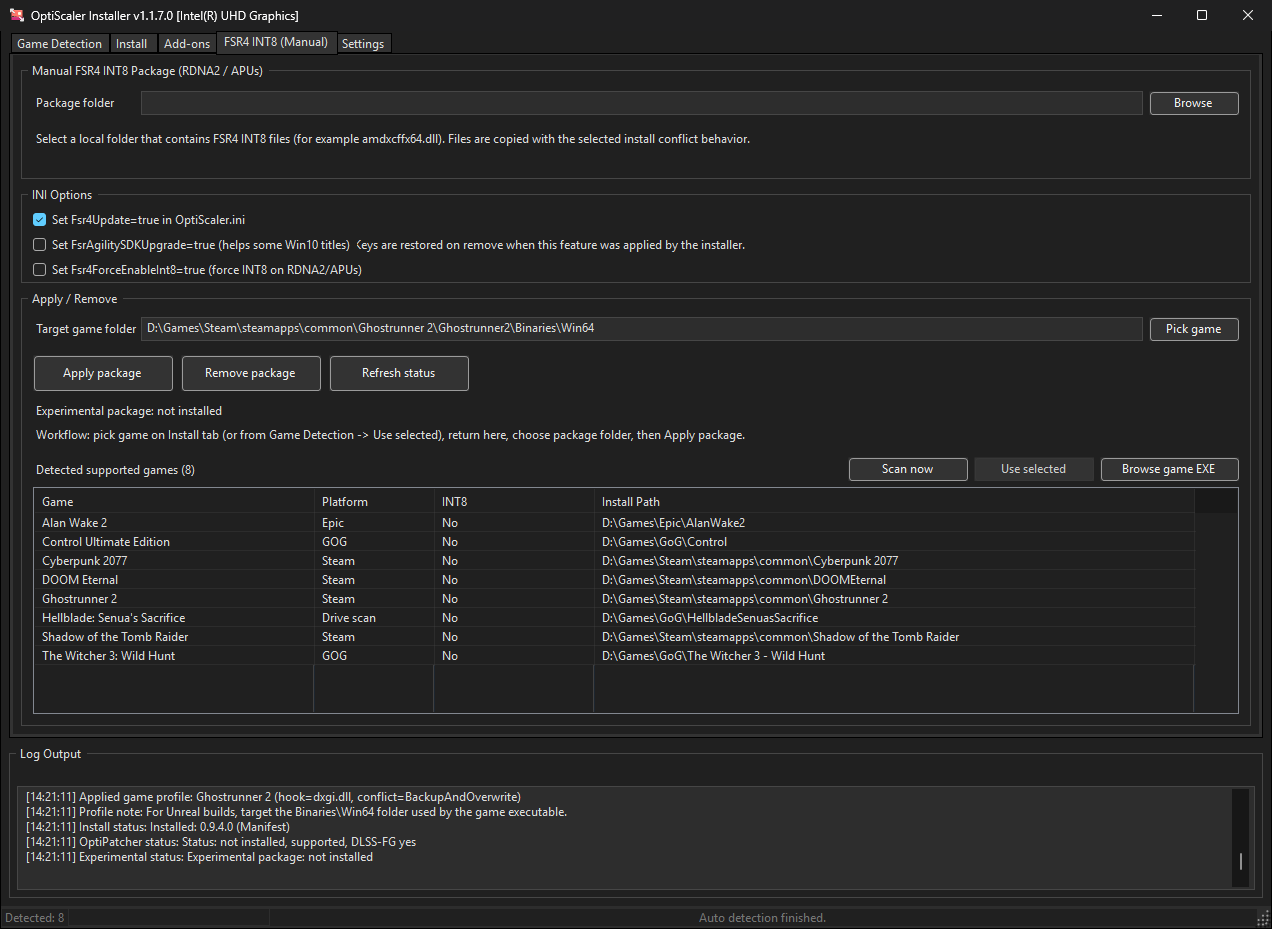
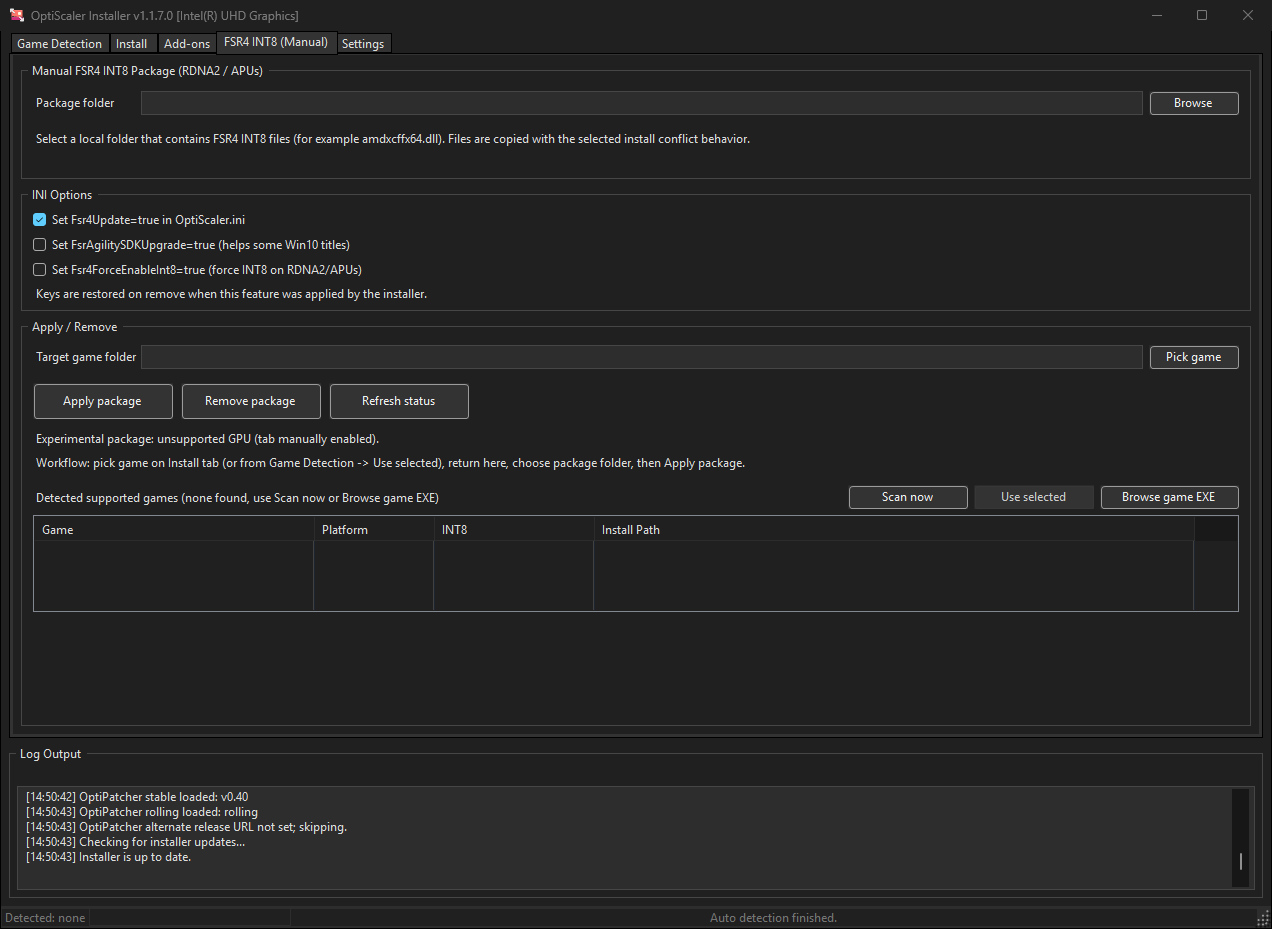
Prepare v1.1.7.1 release
Cosmetic UI fixes found while capturing documentation screenshots.

- Escape the ampersand in the Settings group caption; the group box treated
  it as a mnemonic prefix and rendered "Update _Links".
- Move the four startup toggles into a flow layout row. They sat at hand-set
  X coordinates that were narrower than their auto-sized captions, so the
  game-profiles toggle covered the check box of "Auto-check installer updates
  on startup", leaving it unclickable.
- Move the FSR4 INT8 INI hint to its own line below the checkboxes; the
  FsrAgilitySDKUpgrade caption overlapped it and clipped its first letter.
  The INI Options group grows 28px, which the detected-games list absorbs.

Screenshots for the Settings and FSR4 INT8 tabs recaptured to match.

diff --git a/CHANGELOG.md b/CHANGELOG.md
@@ -6,6 +6,18 @@ The format is based on [Keep a Changelog](https://keepachangelog.com/en/1.1.0/).
 from the build counter rather than semantic versioning — see
 [docs/building.md](docs/building.md#versioning).
 
+## [1.1.7.1] - 2026-08-03
+
+### Fixed
+
+- Settings tab group header rendered as "Update _Links" with an underlined L — the `&` in the caption was
+  treated as a mnemonic prefix.
+- "Auto-check installer updates on startup" had no visible or clickable check box. The startup toggles sat at
+  hand-set coordinates that were narrower than their auto-sized captions, so the middle toggle covered the
+  next one's box. All four now share a flow layout row that spaces them from their measured widths.
+- Clipped hint text on the FSR4 INT8 (Manual) tab, where the `FsrAgilitySDKUpgrade` caption overlapped the
+  note about restored INI keys. The note moved to its own line below the checkboxes.
+
 ## [1.1.7.0] - 2026-07-22
 
 ### Added
@@ -416,6 +428,7 @@ from the build counter rather than semantic versioning — see
 First public release: detection list install status, default INI support, the installer updater, and install
 action prompts.
 
+[1.1.7.1]: https://github.com/Wimukthi/OptiScalerInstaller/releases/tag/v1.1.7.1
 [1.1.7.0]: https://github.com/Wimukthi/OptiScalerInstaller/releases/tag/v1.1.7.0
 [1.1.6.5]: https://github.com/Wimukthi/OptiScalerInstaller/releases/tag/v1.1.6.5
 [1.1.6.4]: https://github.com/Wimukthi/OptiScalerInstaller/releases/tag/v1.1.6.4
